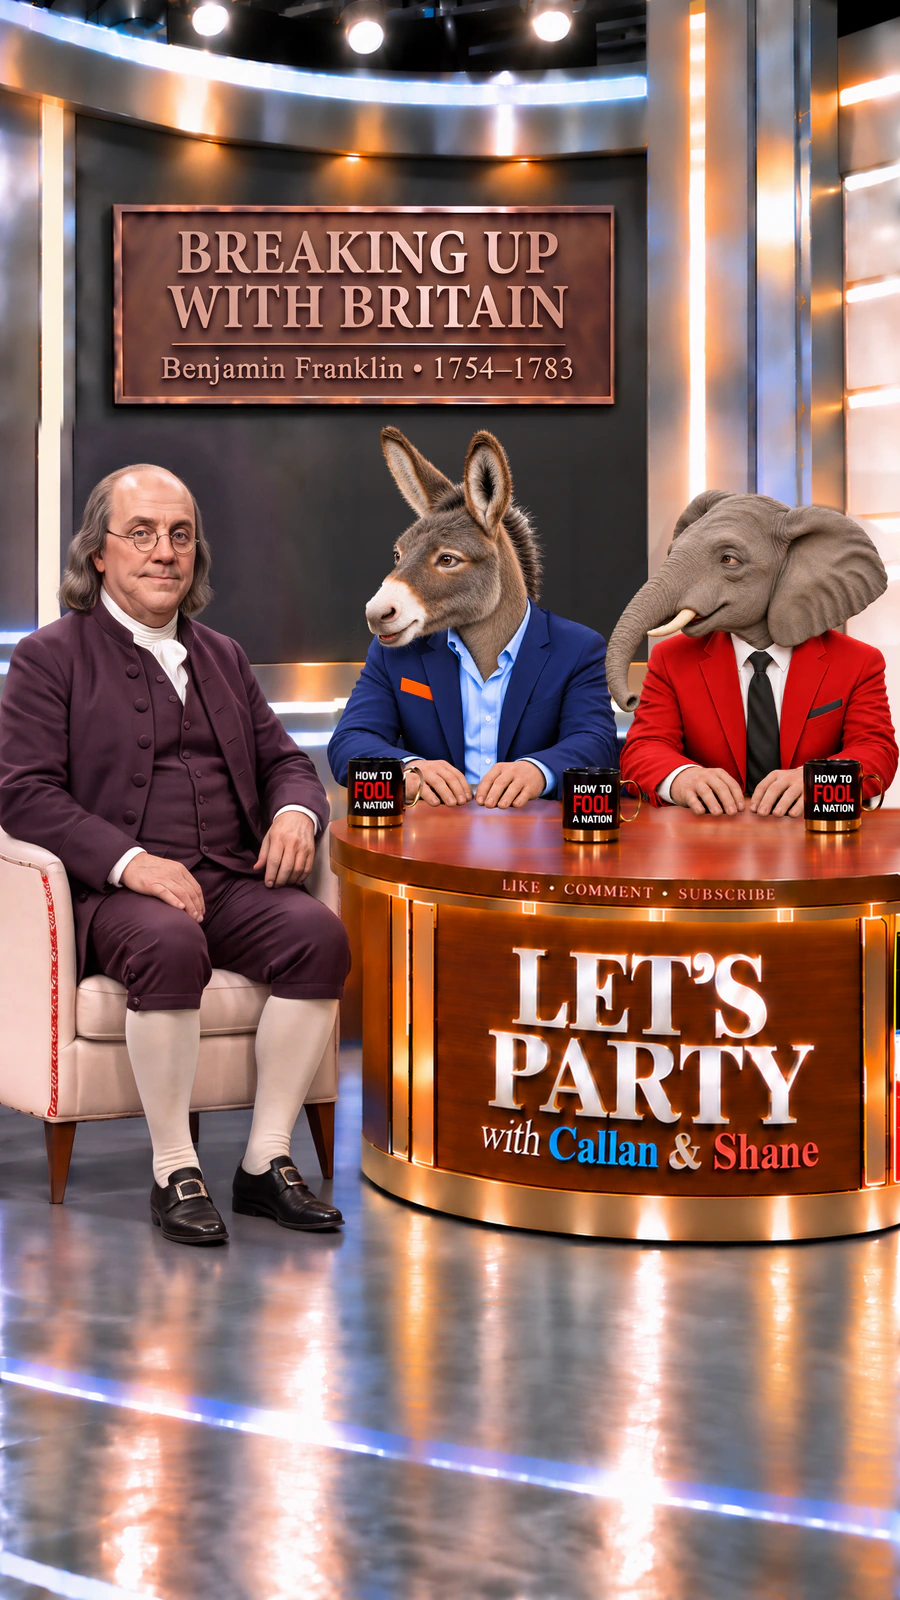
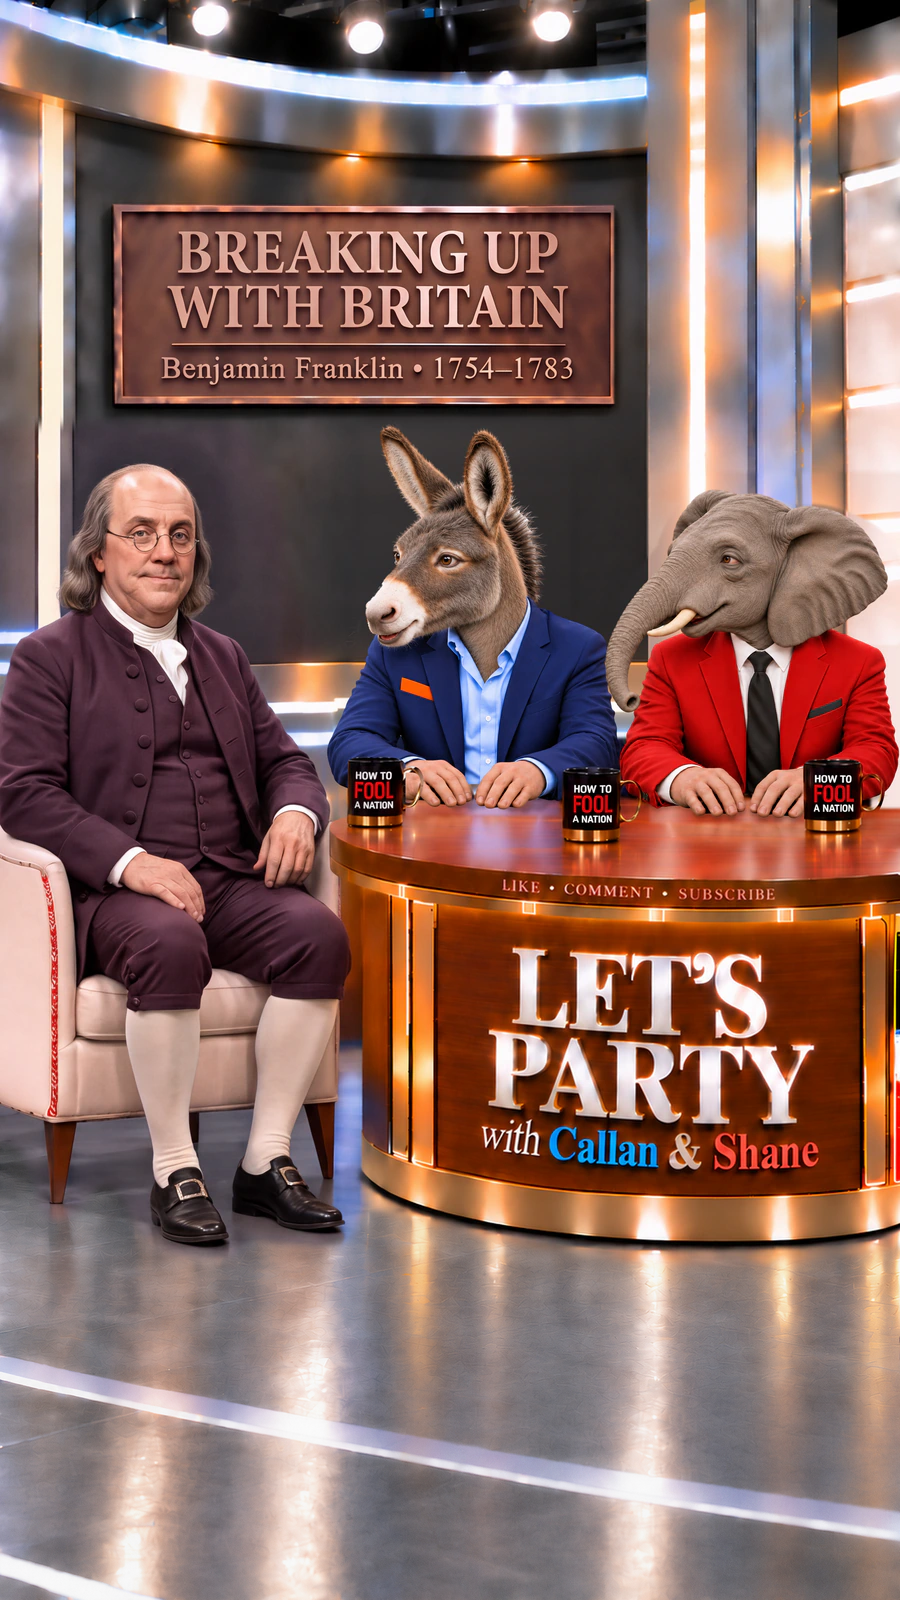
Restore the original studio floor on the Franklin gallery card

Changed region(s): [[0.0, 0.75, 1.0, 1.0]]

diff --git a/index.html b/index.html
@@ -179,7 +179,7 @@
                     </figure>
                     <figure class="min-w-0">
                         <p class="mb-2 text-center text-sm font-semibold leading-snug text-amber-400 sm:text-base"><span class="whitespace-nowrap">Season One,</span> <span class="block whitespace-nowrap min-[440px]:inline">Episode Three</span></p>
-                        <img src="callan-shane-franklin.webp" srcset="callan-shane-franklin.webp 900w, callan-shane-franklin-full.webp 2160w" sizes="(min-width: 1152px) 254px, (min-width: 1024px) calc((100vw - 136px) / 4), (min-width: 640px) calc((100vw - 84px) / 2), calc((100vw - 52px) / 2)" width="900" height="1600" loading="lazy" decoding="async" alt="Benjamin Franklin sits beside Callan and Shane beneath the Breaking Up with Britain sign." class="block h-auto w-full rounded-xl shadow-xl">
+                        <img src="callan-shane-franklin.webp?v=82fda062" srcset="callan-shane-franklin.webp?v=82fda062 900w, callan-shane-franklin-full.webp?v=41193646 2160w" sizes="(min-width: 1152px) 254px, (min-width: 1024px) calc((100vw - 136px) / 4), (min-width: 640px) calc((100vw - 84px) / 2), calc((100vw - 52px) / 2)" width="900" height="1600" loading="lazy" decoding="async" alt="Benjamin Franklin sits beside Callan and Shane beneath the Breaking Up with Britain sign." class="block h-auto w-full rounded-xl shadow-xl">
                         <figcaption class="mt-3 text-center"><span class="block font-semibold leading-snug text-white">Benjamin Franklin</span><span class="mt-1 block text-sm leading-snug text-stone-300">Breaking Up with Britain</span></figcaption>
                     </figure>
                     <figure class="min-w-0">
